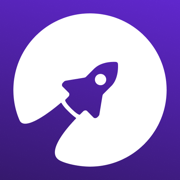
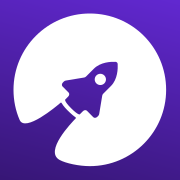
feat(app): make the members area installable
Members area pages link a web app manifest (German start /mitglieder/,
English /en/members/), so phones can add the members area to the home
screen and open it fullscreen. Public pages link none, so visitors are
not offered an app that opens on the login.

- Icons rendered from the favicon mark on the brand gradient by
  scripts/app-icons.mjs, maskable variants inside the safe circle.
  The old favicon-192/512 were only used by the old manifest.
- iOS meta tags with status bar style default; theme-color follows
  data-theme for Android.
- iOS paints the status bar of the installed app with the body
  background, so the login page turns its body purple below lg and
  the brand bar reaches the top edge.
- No service worker: Chrome reports no installability error without
  one, and member pages must never be cached.

diff --git a/CLAUDE.md b/CLAUDE.md
@@ -70,7 +70,7 @@ Icons use `astro-icon` with `@iconify-json/ion` and `@iconify-json/mdi` icon set
 - **Pages**: Each page is implemented once in `src/views/` and rendered by a thin German route in `src/pages/` and an English route in `src/pages/en/`. English slugs that differ (`join`, `contact`, `materials`, `imprint`, `privacy`, `workshops`) are listed in `src/lib/i18n.ts`. MDX pages (legal, workshops, peer-to-peer) exist once per language.
 - **News articles**: German in `src/content/projects/`, English translation in `src/content/projects/en/` under the same file name (collection `projectsEn`). `getNews(locale)` in `src/lib/news.ts` reads both.
 - **Language toggle**: `LanguageToggle.astro` sits next to `ThemeToggle` in the header and the mobile nav. `DefaultLayout` derives the target and the hreflang links from the URL; pass `alternatePath` when the counterpart has a different path (`null` = no counterpart).
-- **Dark theme**: The site uses a near-black background (`--dark-100: hsl(240, 4%, 9%)`). New UI should match this palette.
+- **Dark theme**: The site uses a near-black background (`--color-bg`, `hsl(255 10% 5%)` = `#0c0b0e`). New UI should match this palette.
 - **Component file type**: Use `.astro` for static/structural components and `.jsx`/`.tsx` for interactive React components that need `client:*` directives.
 - **Content changes**: Edit copy in `src/data/staticContent.ts` / `staticContent.en.ts` (nav, footer, hero, FAQ, features) or `src/data/teamsData.ts` — not inside components.
 - **Navigation items**: Managed in `src/data/staticContent.ts` under `navigation.menuItems` (supports nested `children` for dropdowns).
@@ -128,3 +128,4 @@ Icons use `astro-icon` with `@iconify-json/ion` and `@iconify-json/mdi` icon set
 - **Dev server in a worktree**: Tailwind's `content` paths are relative to the working directory, not to `--root`. `astro dev --root <worktree>` started from another folder scans that folder, so classes only used in new files silently miss. Start the server from inside the worktree.
 - **Exit door**: `ExitDoor.astro` has two placements, one visible at a time. From 92rem on it is a round glass button of its own at the top right of the window, outside the pill (`placement="corner"`, a child of `<header>`, not of `.pill`: the pill's `backdrop-filter` would make `position: absolute` relative to the pill). Below that, down to `sm`, it sits inside the pill; below `sm` the profile menu's "Zur Website" entry is the way out. The door is closed at rest; hover, keyboard focus or `data-play` swings it open and sends a rocket out. Touch screens have no hover, so a tap sets `data-play` and navigates 450 ms later. Label and tooltip reuse `memberArea.nav.website`, the link is `navigation.homeUrl`. It uses `:hover` and not a `data-hovered` attribute, because the door disappears with the header swap to the public page.
 - **Deadlines in the task capture**: `+ ... bis <Datum>` in the member search is read by `dueFrom` and `DUE_WORD` (`src/lib/memberSearch.ts`, tested). `bis` or `by` is the signal word; after it come `17.11`, `17.11.`, `17.11.26`, `17.11.2026`, `17. November`, `17. Nov 2026`, a weekday or `morgen`. Day comes before month in both languages, so `Nov 17` and `11/17` stay text. A named date takes only a four-digit year, because `bis 17. Mai 20 Flyer drucken` means 20 flyers, and a date followed by `Uhr` is a time. The chip shows the year when it is not the current one (`dueLabel`). `memberArea.search.task.hint` is a list of `{ token, text }`, so the island can mark the tokens.
+- **Installable app**: Members area pages (login included) link `public/site.webmanifest` (start `/mitglieder/`) or `public/en/site.webmanifest` (start `/en/members/`), scope `/`, standalone; public pages link none, so visitors are not offered an app that opens on the login. There is no service worker: Chrome 156 reports no installability error without one, and none may ever cache member pages or `/api/`. The icons come from `node scripts/app-icons.mjs` (white mark from `favicon.svg` on the brand gradient, maskable inside the 80 % circle). Measured on iOS 26.4 (iPhone 17 Pro simulator): the home screen app honours `start_url`, `apple-mobile-web-app-title` and the touch icon; with status bar style `default` and no `viewport-fit=cover` the page starts below the status bar (innerHeight 812 of 874 pt, safe-area insets 0) but reaches the bottom edge, so fixed elements at `bottom-4` sit just above the home indicator. iOS paints the status bar with the `body` background and picks dark or white text from it; `theme-color` and the `html` background have no effect there. That is why the login page turns its `body` purple below `lg`. Android colours its status bar with `theme-color`, which the bootstrap in `DefaultLayout` keeps in step with `data-theme`. The iOS app has its own cookies, apart from Safari: members sign in once more in the app (signing in inside the app leaves Safari signed out). Android was not tested.
